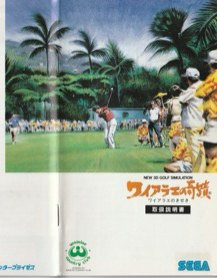
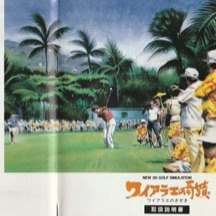
20: 切り出しを箱らしさで選ぶ　23: 機種のロゴ　24: 詰め合わせの絵を合成　台帳の版を打ち直す
20 いちばん大きい塊が箱とは限らない。売り買いの写真は箱・ディスク・説明書を
   机に広げて撮ってあるので、全部が一続きになると「机の上ぜんぶ」を切る。
   大きい順に幾つか見て、四角くて・大きくて・色が濃いものを箱と見る。

23 機種を字の札ではなくロゴで出す。Commons から取って白抜きに揃える。
   PC-98 のロゴは「PC-98」では出てこない。PC9800 で引くと出る。
   PSP は黒地に白抜きなので、白くするだけだと真っ白の板になった。
   四隅の明暗を見て、どちらを抜くか決める。

24 詰め合わせにはそういう箱が世に無いので、中身の絵を重ねて作る。

台帳の版が ?v=1 で固定だったので、直しても端末に届かなかった。日付にした。

diff --git a/app.js b/app.js
@@ -18,6 +18,8 @@ const size = n => n >= 1e6 ? (n / 1e6).toFixed(1) + 'MB' : Math.max(1, Math.roun
 const LS  = P.store('pg');
 const log = P.logger(LS);
 const ROMS = P.shelfCache('roms-v1', 'rom.local');
+/* ロゴを持っている機種。持っていないものは字の札のまま出す。 */
+const LOGOS = { FC: 1, SFC: 1, N64: 1, DS: 1, PSP: 1, '98': 1 };
 
 let toastTimer = null;
 function toast(msg, ms) {
@@ -342,7 +344,11 @@ function cellHtml(g) {
                       : `<div class="ph">${esc(nm)}</div>`;
   return `<button class="item" data-id="${esc(g.id)}" data-s="${esc(g.short)}"${has ? '' : ' data-no="1"'}>
     <div class="cov">${cov}
-      <span class="tag" data-s="${esc(g.short)}">${esc(g.short)}${g.kind === 'tool' ? ' 道具' : g.kind === 'save' ? ' セーブ' : ''}</span>
+      <span class="tag${LOGOS[g.short] ? ' logo' : ''}" data-s="${esc(g.short)}">${
+        LOGOS[g.short] ? `<img src="logos/${esc(g.short)}.png" alt="${esc(g.short)}"
+          onerror="this.remove();this.parentNode.classList.remove('logo')">` : ''
+      }<span>${esc(g.short)}</span>${g.kind === 'tool' ? '<span style="display:inline">道具</span>'
+        : g.kind === 'save' ? '<span style="display:inline">セーブ</span>' : ''}</span>
       ${S.here[g.id] ? '<span class="off">●</span>' : ''}
       ${has ? '' : '<span class="no">未アップ</span>'}
     </div>
@@ -885,14 +891,14 @@ function screenLog() {
 (async function start() {
   $('#hcell').textContent = { s: '小', m: '中', l: '大' }[S.cell] || '中';
   try {
-    S.cat = await (await fetch('./games.json?v=1', { cache: 'no-cache' })).json();
+    S.cat = await (await fetch('./games.json?v=20260831', { cache: 'no-cache' })).json();
   } catch (e) {
     main().innerHTML = '<div class="card"><h2>台帳が読めません</h2>' +
       '<div class="msg err">games.json を取ってこられませんでした</div></div>';
     return;
   }
   /* PC-98 の台帳は無くても棚は開く（コアを組んでいない環境もある）。 */
-  try { S.cat98 = await (await fetch('./pc98.json?v=1', { cache: 'no-cache' })).json(); }
+  try { S.cat98 = await (await fetch('./pc98.json?v=20260831', { cache: 'no-cache' })).json(); }
   catch (e) { S.cat98 = null; }
   S.items = mergeCatalogs();
   await refreshHere();

diff --git a/index.html b/index.html
@@ -13,7 +13,7 @@
 <link rel="apple-touch-icon" href="./icon-180.png">
 <link rel="icon" href="./icon-192.png">
 <!-- 共通の見た目。正本は ~/claude code/shelf-core/shelf.css -->
-<link rel="stylesheet" href="./core/shelf.css?v=1">
+<link rel="stylesheet" href="./core/shelf.css?v=2">
 <style>
 /* 機種の見分け。**小さい灰色の札では、並べたときに読めない。**
    機種ごとに色を決め、字も大きくする。色は「その機械の顔」に寄せた:
@@ -21,7 +21,13 @@
    PSP は黒紫、PC-98 は NEC の青。 */
 .cov .tag{font-size:11.5px;font-weight:700;letter-spacing:.06em;
   padding:3px 7px;color:#fff;background:rgba(0,0,0,.72);
-  border:1px solid rgba(255,255,255,.28);text-shadow:0 1px 2px rgba(0,0,0,.6)}
+  border:1px solid rgba(255,255,255,.28);text-shadow:0 1px 2px rgba(0,0,0,.6);
+  display:flex;align-items:center;gap:4px;line-height:1}
+/* その機械のロゴを白抜きで載せる。横長・縦長がまちまちなので、
+   同じ枠に収めて（contain）並びを揃える。取れなかった機種は字のまま。 */
+.cov .tag img{height:15px;max-width:56px;object-fit:contain;display:block}
+.cov .tag.logo{padding:4px 7px}
+.cov .tag.logo span{display:none}
 .cov .tag[data-s="FC"] {background:#c8392b;border-color:#e8695c}
 .cov .tag[data-s="SFC"]{background:#5b5f9e;border-color:#8b8fd0}
 .cov .tag[data-s="N64"]{background:#1f8a63;border-color:#4fc493}
@@ -90,6 +96,6 @@ body{--ratio:3/4; --fit:contain}
 <script src="./core/pcloud.js?v=2"></script>
 <script src="./pc98disk.js?v=3"></script>
 <script src="./disks.js?v=2"></script>
-<script src="./app.js?v=25"></script>
+<script src="./app.js?v=27"></script>
 </body>
 </html>
